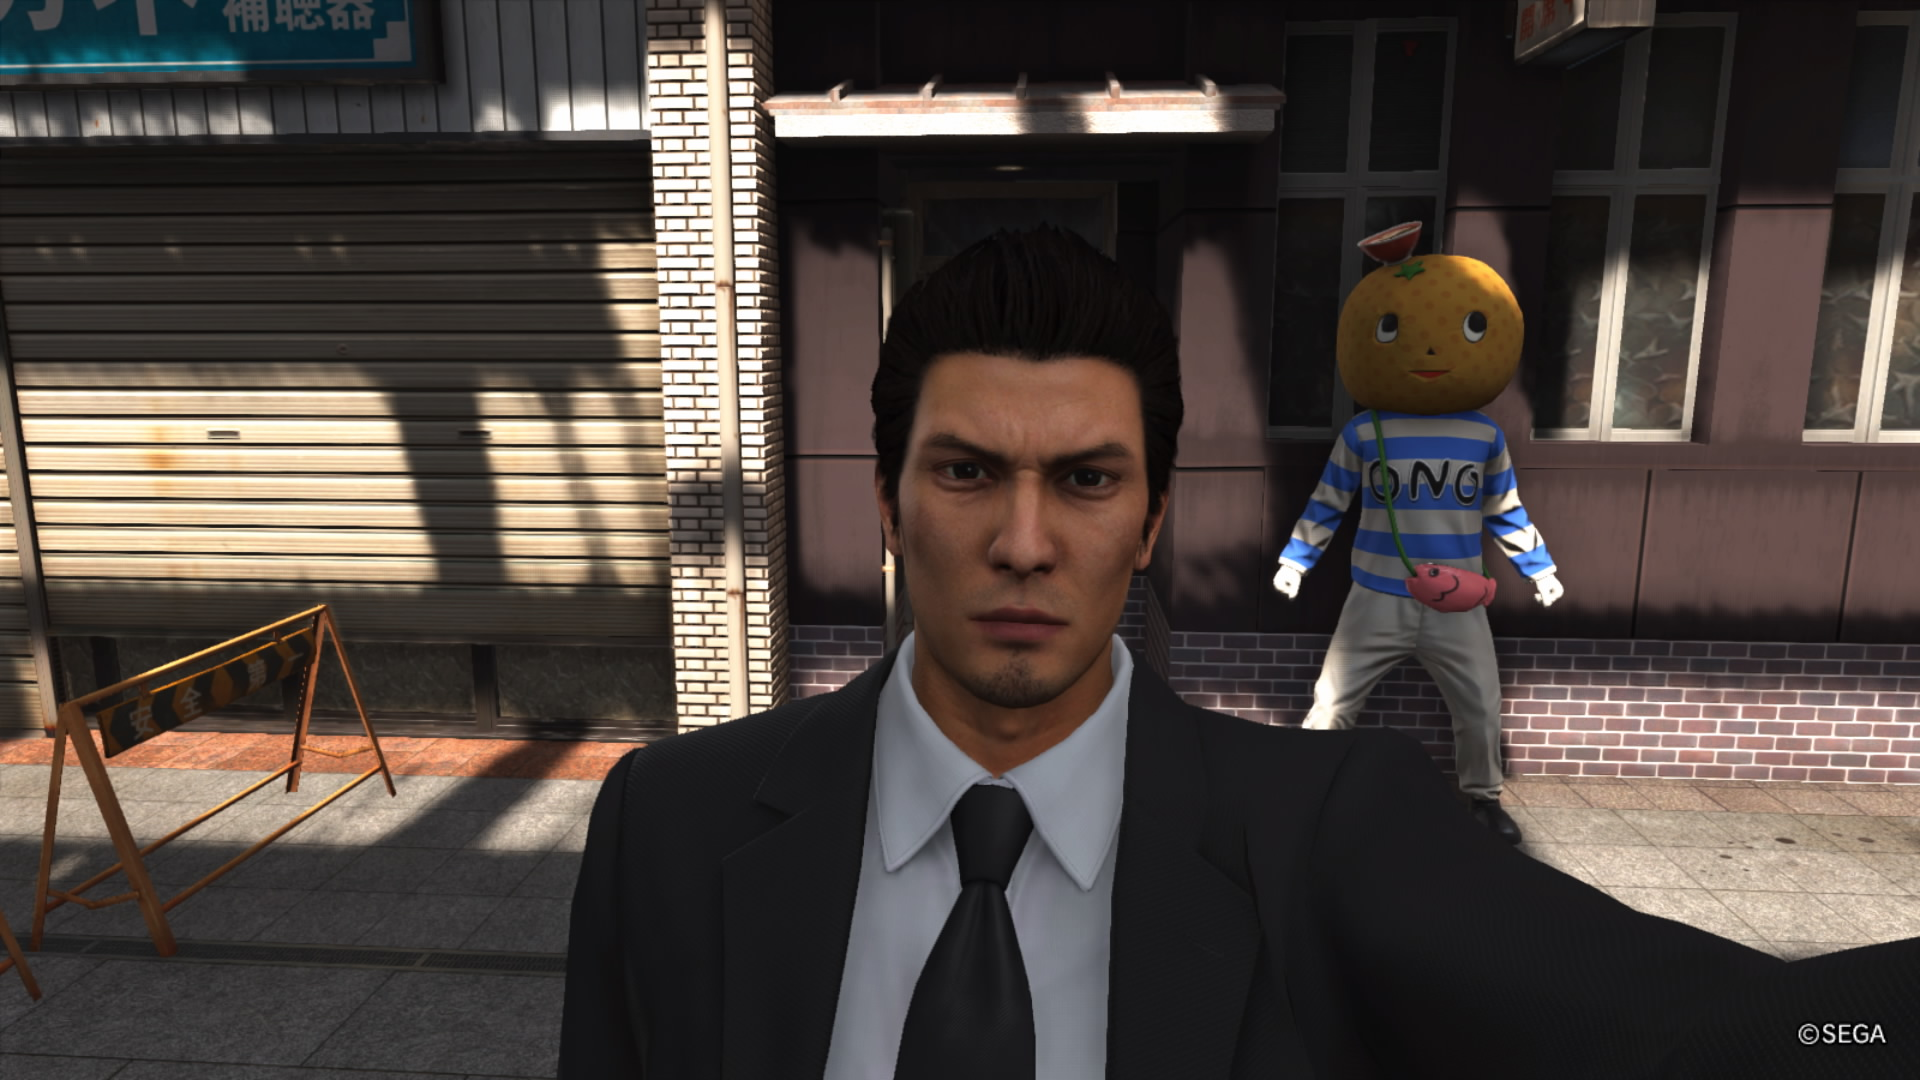
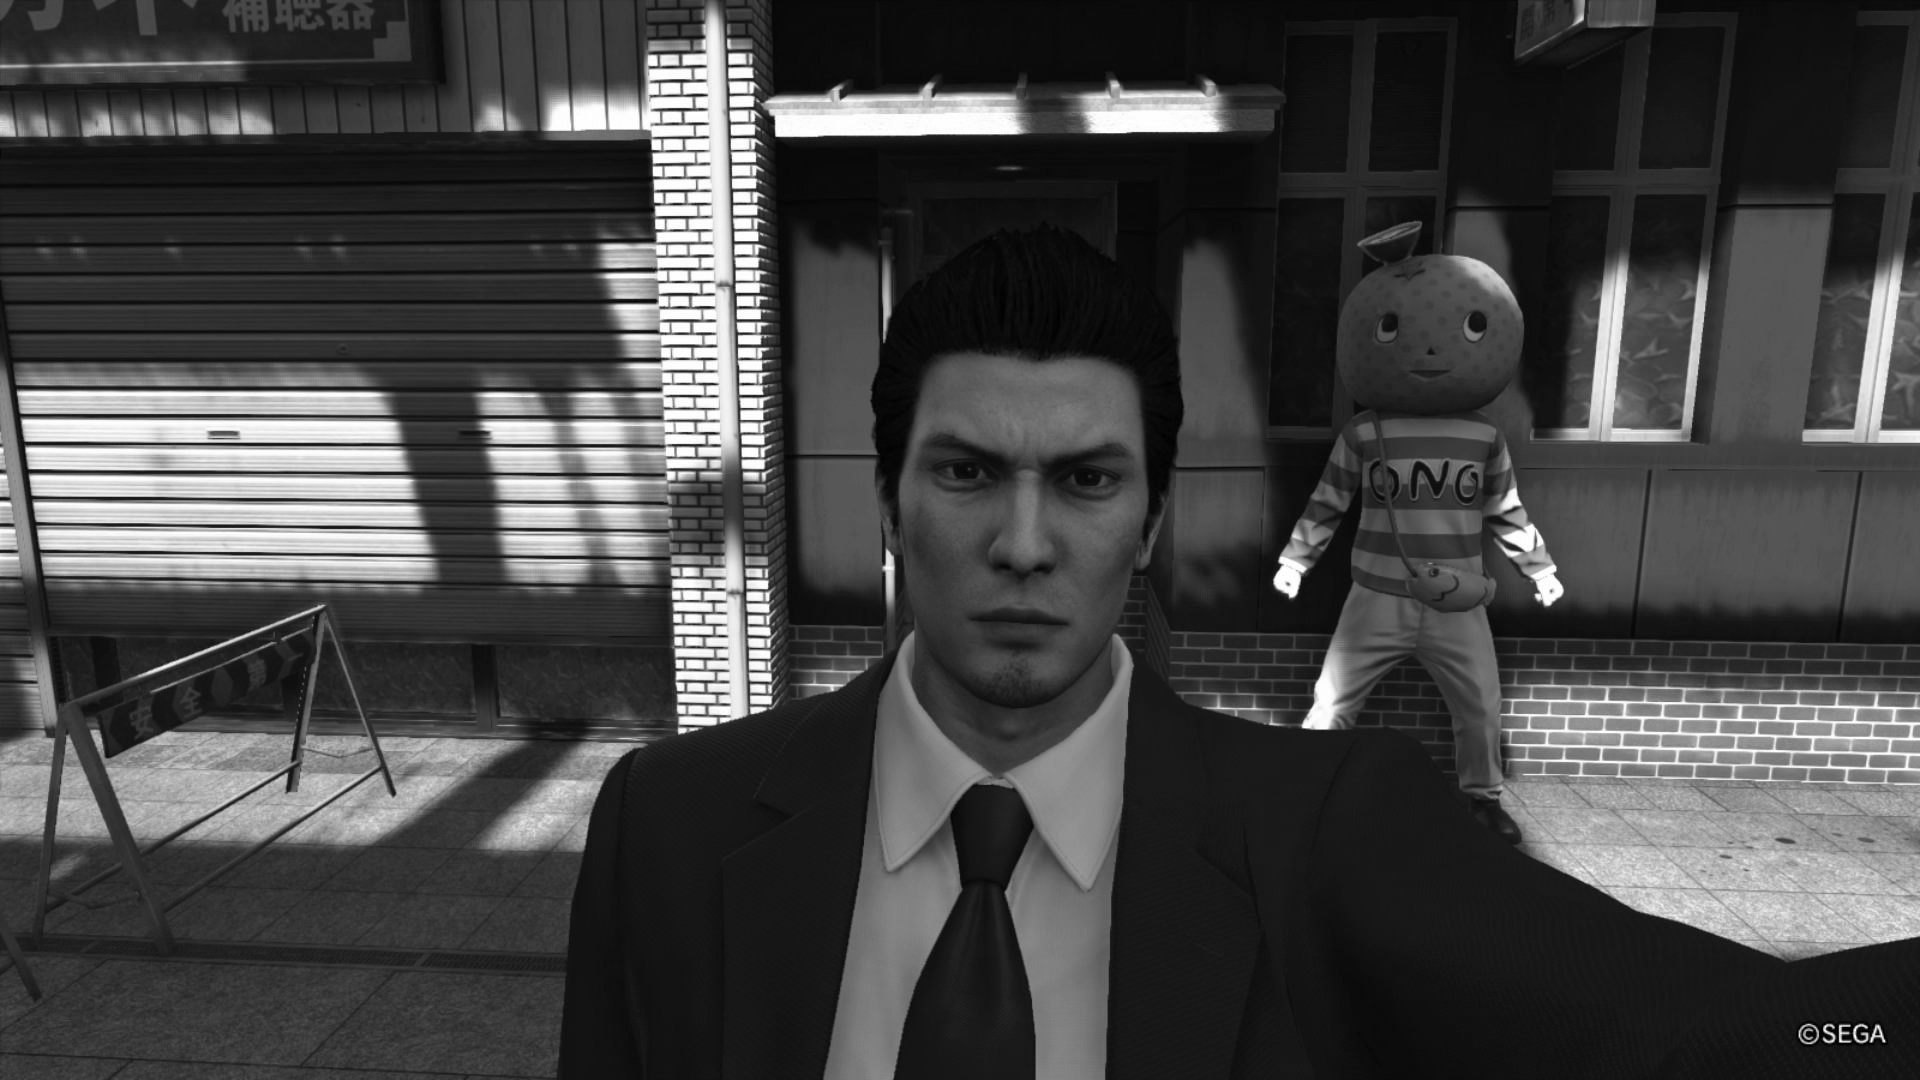
Add file odification functions

diff --git a/app.js b/app.js
@@ -33,9 +33,33 @@ const startApp = async () => {
     await image.quality(100).writeAsync(outputFile);
   }
 
-  const prepareOutputFilename = filename => {
+  const prepareOutputFilename = (filename) => {
     const [ name, ext ] = filename.split('.')
     return `${name}` + `-with-watermark.` + `${ext}`;
+  };
+
+  const makeImageBrighter = async function(inputFile) {
+    const image = await Jimp.read(inputFile);
+    image.brightness(0.2);
+    await image.quality(100).writeAsync(inputFile);
+  };
+
+  const increaseContrast = async function(inputFile) {
+    const image = await Jimp.read(inputFile);
+    image.contrast(0.3);
+    await image.quality(100).writeAsync(inputFile);
+  };
+
+  const makeImageBlackAndWhite = async function(inputFile) {
+    const image = await Jimp.read(inputFile);
+    image.greyscale();
+    await image.quality(100).writeAsync(inputFile);
+  };
+
+  const invertImage = async function(inputFile) {
+    const image = await Jimp.read(inputFile);
+    image.invert(); 
+    await image.quality(100).writeAsync(inputFile);
   };
 
   // Ask if user is ready
@@ -64,8 +88,41 @@ const startApp = async () => {
       process.exit();
     }
 
+    for (n = 1; ; n++) {
+      const answerModification = await inquirer.prompt([{
+        name: 'willModify',
+        message: 'Would you like to modify your file?',
+        type: 'confirm',
+      }]);
+
+      if (answerModification.willModify) {
+          const modificationOptions = await inquirer.prompt([{
+            name: 'modificationType',
+            type: 'list',
+            choices: ['Make image brighter', 'Increase contrast', 'Make image b&w', 'Invert image']
+          }])
+    
+          if (modificationOptions.modificationType === 'Make image brighter'){
+            makeImageBrighter('./img/' + file.inputImage, './img/' + prepareOutputFilename(file.inputImage));
+            process.stdout.write('\nSuccess! Modification was applied\n\n');
+          } else if (modificationOptions.modificationType === 'Increase contrast'){
+            increaseContrast('./img/' + file.inputImage, './img/' + prepareOutputFilename(file.inputImage));
+            process.stdout.write('\nSuccess! Modification was applied\n\n');
+          } else if (modificationOptions.modificationType === 'Make image b&w'){
+            makeImageBlackAndWhite('./img/' + file.inputImage, './img/' + prepareOutputFilename(file.inputImage));
+            process.stdout.write('\nSuccess! Modification was applied\n\n');
+          } else {
+            invertImage('./img/' + file.inputImage, './img/' + prepareOutputFilename(file.inputImage));
+            process.stdout.write('\nSuccess! Modification was applied\n\n');
+          }
+      } else {
+        break;
+      }
+    }
+
     const options = await inquirer.prompt([{
       name: 'watermarkType',
+      message: 'Which type of watermark?',
       type: 'list',
       choices: ['Text watermark', 'Image watermark'],
     }]);
